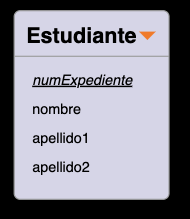
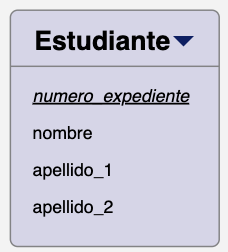
Modificado Lab09 para que toda la notación y las imágenes estén en snake_case en lugar de camelCase

diff --git a/labs/LAB09 - BigER 1.md b/labs/LAB09 - BigER 1.md
@@ -54,12 +54,12 @@ Una **entidad** representa un objeto del mundo real o conceptual que tiene una e
 
 Ve al archivo EjemplosNotacionBigER y escribe lo siguiente:
 
-entity NombreEntidad {  
-    atributo1 key  
-    atributo2  
-    atributo3  
-    atributo4  
-    atributo5  
+entity Nombre_Entidad {  
+    atributo_1 key  
+    atributo_2  
+    atributo_3  
+    atributo_4  
+    atributo_5  
 }
 
 Deberías ver algo similar a lo que se muestra en la siguiente pantalla:
@@ -69,7 +69,7 @@ Deberías ver algo similar a lo que se muestra en la siguiente pantalla:
 Tenemos varios elementos en los que fijarnos:
 
 - palabra reservada `entity` (ojo, todas las palabras reservadas se escriben en minúsculas): especifica que vamos a definir una nueva entidad.
-- **NombreEntidad**: es el nombre de la entidad.
+- **Nombre_Entidad**: es el nombre de la entidad.
 - { : llave de inicio para indicar que pasamos a describir el contenido de la entidad.
 - Lista de atributos, uno en cada línea:
     - Aquel atributo (o conjunto de atributos) que sean clave primaria habrá que indicarlo usando la palabra reservada `key` y aparecerá subrayado en el diagrama
@@ -78,7 +78,7 @@ Tenemos varios elementos en los que fijarnos:
 ---
 ### Ejercicio 01 - Entidades y atributos (1)
 
-Modifica el contenido de la entidad NombreEntidad anterior para que pase a ser la entidad **Estudiante**, con los atributos **numExpediente** (**Clave Primaria**), **nombre**, **apellido1** y **apellido2** para que se visualice dicha entidad de esta forma:
+Modifica el contenido de la entidad Nombre_Entidad anterior para que pase a ser la entidad **Estudiante**, con los atributos **numero_expediente** (**Clave Primaria**), **nombre**, **apellido_1** y **apellido_2** para que se visualice dicha entidad de esta forma:
 ![](../imgs/BD%20-%20BigER%20Entidad%20Estudiante.png)
 
 Escribe en la notación BigER cómo modelar la entidad **Estudiante**
@@ -93,19 +93,19 @@ Una **relación** describe una interacción entre dos o más entidades. Además,
 
 La notación utilizada en BigER es la siguiente:
 
-**relationship** NombreRelacion {
+**relationship** nombre_relacion {
 
-Entidad1[`cardMin..cardMax`] `->` Entidad2[`cardMin..cardMax`]
-atributo1DeLaRelacion
-atributo2DeLaRelacion
+Entidad_1[`cardinalidad_minima..cardinalidad_maxima`] `->` Entidad_2[`cardinalidad_minima..cardinalidad_maxima`]
+atributo_1_de_la_relacion
+atributo_2_de_la_relacion
 ...
-atributoZDeLaRelacion
+atributo_n_de_la_relacion
 }
 
 - palabra reservada **relationship**
-- NombreRelacion: es el nombre que le damos a la relación.
-- Entidad1 y Entidad2: son las entidades involucradas en la relación.
-- **cardMin**..**cardMax**: indica el número de instancias que pueden participar en la relación. Puede ser:
+- nombre_relacion: es el nombre que le damos a la relación.
+- Entidad_1 y Entidad_2: son las entidades involucradas en la relación.
+- **cardinalidad_minima**..**cardinalidad_maxima**: indica el número de instancias que pueden participar en la relación. Puede ser:
     - 0..1: mínimo cero, máximo uno.
     - 1..1: una y solo una instancia.
     - 0..N: desde cero a muchas instancias.
@@ -115,17 +115,16 @@ atributoZDeLaRelacion
 Vuelve de nuevo al archivo EjemplosNotacionBigER y añade lo siguiente:
 
 `entity` Titulacion {
-codTitulacion `key`
+codigo `key`
 nombre
 }
 
-`relationship` matriculadoEn {
+`relationship` matriculado_en {
 Estudiante[`1..N`] `->` Titulacion[`1..1`]
-fechaMatriculacion
+fecha_matriculacion
 }
 
 Tras escribir ese texto, deberías poder ver en la ventana del diagrama E/R algo similar a lo que se muestra en la siguiente pantalla:
-
 ![](../imgs/BD%20-%20BigER%20Relacion%20Estudiante%20Titulacion%20Chen.png)
 
 Como puedes observar, BigER por defecto usa una notación gráfica distinta a la notación Crow's foot que queremos en nuestros diagramas.
@@ -137,13 +136,12 @@ Hay dos maneras de conseguir que BigER nos muestre el diagrama E/R en notación 
 
 Tanto si lo haces de una forma como de otra ya deberías poder ver así el diagrama:
 
-![](../../imgs/BD%20-%20BigER%20Estudiante%20Titulacion%20Matriculado%20En.png)
+![](../imgs/BD%20-%20BigER%20Relacion%20Estudiante%20Titulacion%20Crow%20Foot.png)
 
 Como acabamos de ver, aunque BigER admite atributos al describir una relación, no los muestra.
 
 Si pasas el ratón por encima del rombo que modela la relación, verás que aunque no lo muestre, sí lo está incluyendo como atributo en la relación tal y como se ve en la siguiente imagen:
-
-![](../imgs/BD%20-%20BigER%20Atributo%20en%20Matriculado%20En.png)
+![](../imgs/BD%20-%20BigER%20Relacion%20Estudiante%20Titulacion%20Mostrando%20Atributo%20Relacion.png)
 
 Para poder mostrar este, y cualquier otro atributo de relación, en el diagrama final tendremos que recurrir a otras herramientas que nos permitan incluir líneas y texto sobre la imagen del diagrama cuando tengamos nuestro diagrama terminado.
 
@@ -152,19 +150,18 @@ Cualquier editor de texto, de presentaciones o de imagen suele soportar ese tipo
 En nuestro caso, en los distintos diagramas E/R que ves en la asignatura, estamos recurriendo a PowerPoint (también es igual de sencillo en cualquier otro editor de presentaciones) dado lo fácil que es incluir sobre una imagen tanto distintas formas como texto.
 
 Así, puedes ver a continuación el diagrama tan incluir su imagen (rápidamente mediante captura de pantalla) en una diapositiva de Powerpoint, incluir el nombre del atributo como cuadro de texto y unir el rombo y el texto insertando una línea recta:
-
-![](../imgs/BD%20-%20BigER%20Atributo%20en%20Matriculado%20En%20Retocado.png)
+![](../imgs/BD%20-%20BigER%20Relacion%20Estudiante%20Titulacion%20Mostrando%20Atributo%20Relacion%20Powerpoint.png)
 
 Antes de pasar a realizar ejercicios con relaciones, indicar que es posible modelar relaciones ternarias entre tres entidades. La única diferencia es que en este caso la sintaxis sería:
 
-`relationship` NombreRelacion {
-Entidad1[`cardMin..cardMax`] `->` 
-Entidad2[`cardMin..cardMax`] `->` 
-Entidad3[`cardMin..cardMax`]
-atributo1DeLaRelacion
-atributo2DeLaRelacion
+`relationship` nombre_relacion {
+Entidad_1[`cardinalidad_minima..cardinalidad_maxima`] `->` 
+Entidad_2[`cardinalidad_minima..cardinalidad_maxima`] `->` 
+Entidad_3[`cardinalidad_minima..cardinalidad_maxima`]
+atributo_1_de_la_relacion
+atributo_2_de_la_relacion
 ...
-atributoZDeLaRelacion
+atributo_n_de_la_relacion
 }
 
 ---
@@ -178,37 +175,37 @@ La notación utilizada en BigER es la siguiente:
 
 1.- En primer lugar, la notación para una entidad dependiente o débil es la siguiente:
 
-`weak entity` NombreEntidadDebil {
-clavePrimariaParcialEnEntidadDebil `partial-key`
-atributo1DeLaEntidadDebil
+`weak entity` Nombre_Entidad_Debil {
+clave_primaria_parcial_en_entidad_debil `partial-key`
+atributo_1_de_la_entidad_debil
 ...
-atributoNDeLaEntidadDebil
+atributo_n_de_la_entidad_debil
 }
 
 Donde:
 
 - palabra reservada `weak entity`
-- clavePrimariaParcialEnEntidadDebil es el nombre del atributo de la entidad débil que, en la mayoría de los casos, se combinará con la clave o claves primarias de la/s entidad/es fuerte/s de la/s que depende seguido de la palabra reservada `partial-key`
+- clave_primaria_parcial_en_entidad_debil  es el nombre del atributo de la entidad débil que, en la mayoría de los casos, se combinará con la clave o claves primarias de la/s entidad/es fuerte/s de la/s que depende seguido de la palabra reservada `partial-key`
 - resto de atributos de la entidad débil
 
 2.- En segundo lugar, toda entidad dependiente o débil se relaciona con, al menos, una entidad fuerte mediante una relación débil cuya notación es la siguiente:
 
-`weak relationship` NombreRelacionDebil {
-EntidadDebil[`0..N`] (o [`1..N`]) **->** EntidadFuerte[`1..1`]
+`weak relationship` nombre_relacion_debil {
+Entidad_Debil[`0..N`] (o [`1..N`]) **->** Entidad_Fuerte[`1..1`]
 }
 
 o dependiendo **si por el nombre de la relación se entiende mejor cambiando el orden:**
 
-`weak relationship` NombreRelacionDebil {
-EntidadFuerte[`1..1`] -> EntidadDebil[`0..N`] (o [`1..N`])
+`weak relationship` nombre_relacion_debil {
+Entidad_Fuerte[`1..1`] -> Entidad_Debil[`0..N`] (o [`1..N`])
 }
 
 Donde:
 
 - palabra reservada `weak relationship`
-- NombreRelacionDebil: es el nombre que le damos a la relación débil.
-- EntidadDebil: aparece siempre con cardinalidad [`0..N`] o [`1..N`] dependiendo del caso.
-- EntidadFuerte: aparece siempre con cardinalidad [`1..1`].
+- nombre_relacion_debil: es el nombre que le damos a la relación débil.
+- Entidad_Debil: aparece siempre con cardinalidad [`0..N`] o [`1..N`] dependiendo del caso.
+- Entidad_Fuerte: aparece siempre con cardinalidad [`1..1`].
 - Lista de atributos específicos de la relación, cada uno en una línea.
 
 Hay que tener en cuenta que en caso de que la entidad dependiente o débil dependa de más de una entidad tendremos que tener una relación débil con cada una de esas entidades fuertes.
@@ -216,19 +213,19 @@ Hay que tener en cuenta que en caso de que la entidad dependiente o débil depen
 Vuelve de nuevo al archivo EjemplosNotacionBigER y añade lo siguiente:
 
 `weak entity` Asignatura {
-codAsignatura `partial-key` //atributo aportado a la clave primaria por la entidad débil Asignatura
-nombreAsignatura
+codigo_asignatura `partial-key` //atributo aportado a la clave primaria por la entidad débil Asignatura
+nombre
 }
 
-`weak relationship` compuestaDe {
+`weak relationship` compuesta_de {
 Titulacion[`1..1`] -> Asignatura[`1..N`]
 }
 
 Tras escribir ese texto, deberías poder ver en la ventana del diagrama E/R algo similar a lo que se muestra en la siguiente imagen:
 
-![](../imgs/BD%20-%20BigER%20Debil%20Titulacion%20Asignatura%20Crows%20Foot.png)
+![](../imgs/BD%20-%20BigER%20Relacion%20Estudiante%20Titulacion%20Asignatura%20Crow%20Foot.png)
 
-Puedes ver como tanto la entidad dependiente Asignatura como la relación débil compuestaDe aparecen con borde negro más grueso para indicar que son débiles. Cuando las dibujemos a mano normalmente usaremos doble borde en lugar de un borde grueso negro para que se distingan mejor.
+Puedes ver como tanto la entidad dependiente Asignatura como la relación débil compuesta_de aparecen con borde negro más grueso para indicar que son débiles. Cuando las dibujemos a mano normalmente usaremos doble borde en lugar de un borde grueso negro para que se distingan mejor.
 
 ---
 
@@ -240,41 +237,42 @@ A veces, las entidades en una relación pueden desempeñar distintos **roles**. 
 
 La notación utilizada en BigER es la siguiente:
 
-`relationship` NombreRelacionConRoles {
+`relationship` Nombre_Relacion_Con_Roles {
 
-Entidad1[`cardMin..cardMax` | `"rol1"`] -> Entidad2[`cardMin..cardMax` | `"rol2"`]
-AtributoDeLaRelacion1
-AtributoDeLaRelacion2
+Entidad_1[`cardinalidad_minima..cardinalidad_maxima` | `"rol_1"`] -> Entidad_2[`cardinalidad_minima..cardinalidad_maxima` | `"rol_2"`]
+atributo_1_de_la_relacion
+atributo_2_de_la_relacion
 ...
-AtributoDeLaRelacionZ
+atributo_n_de_la_relacion
 }
 
 Donde:
 
 - palabra reservada `relationship`
-- NombreRelacionConRoles: es el nombre que le damos a la relación débil.
-- Entidad1 y Entidad2: son las entidades involucradas en la relación. Normalmente serán la misma relación dado que solo se suelen usar roles en relaciones recursivas  
+- Nombre_Relacion_Con_Roles: es el nombre que le damos a la relación débil.
+- Entidad_1 y Entidad_2: son las entidades involucradas en la relación. Normalmente serán la misma relación dado que solo se suelen usar roles en relaciones recursivas  
     
 - Entidad: aparece siempre en primer lugar con cardinalidad [`0..N`] o [`1..N`] dependiendo del caso.
-- `cardMin..cardMax`: indica el número de instancias que pueden participar en la relación. Puede ser:
+- `cardinalidad_minima..cardinalidad_maxima`: indica el número de instancias que pueden participar en la relación. Puede ser:
     - 0..1: mínimo cero, máximo uno. Habitual en uno de los dos lados de la relación recursiva
     - 1..1: una y solo una instancia. No suele ser habitual en relaciones recursivas.
     - 0..N: desde cero a muchas instancias. Habitual en uno de los dos lados de la relación recursiva
     - 1..N: mínimo una instancia, máximo muchas instancias.No suele ser habitual en relaciones recursivas.
-- rol1: rol tomado por la Entidad1 en la relación
-- rol2: rol tomado por la Entidad1 en la relación
+- rol_1: rol tomado por la Entidad_1 en la relación
+- rol_2: rol tomado por la Entidad_2 en la relación
 - Lista de atributos específicos de la relación, cada uno en una línea.
 
 Vuelve de nuevo al archivo EjemplosNotacionBigER y añade lo siguiente:
 
-**relationship** esMentorDe {
+**relationship** es_mentor_de {
 Estudiante[`0..1`| `"Mentor"`] -> Estudiante[`0..N`|`"Mentorizado"`]
 }
 
-Tras escribir ese texto, deberías poder ver en la ventana del diagrama E/R algo similar a lo que se muestra en la siguiente pantalla:
+Tras escribir ese texto, deberías poder ver en la ventana del diagrama E/R algo similar a lo que se muestra en la siguiente pantalla
 
-![](../imgs/BD%20-%20BigER%20Relacion%20Estudiante%20con%20Roles.png)
-Puedes ver como ahora en cada extremo de la relación esMentorDe aparece el rol tomado en cada extremo de la relación por el Estudiante.
+![](../imgs/BD%20-%20BigER%20Relacion%20Estudiante%20Titulacion%20Asignatura%20Mentor%20Crow%20Foot.png)
+
+Puedes ver como ahora en cada extremo de la relación es_mentor_de aparece el rol tomado en cada extremo de la relación por el Estudiante.
 
 ---
 ## Resolución del Enunciado ER 02 The Expanse Simplificado
@@ -305,6 +303,7 @@ Con esta información ya podemos modelar las dos primeras entidades mencionadas,
 
 ![](../imgs/BD%20-%20BigER%20Enunciado%202%20ER%20The%20Expanse%20v1%20simplificado%20Lab09%20parte%201.png)
 
+
 ---
 
 ### Ejercicio 03 - Enunciado ER 02 The Expanse Simplificado  (2)
@@ -326,7 +325,7 @@ En una primera lectura podemos pensar que tenemos cuatro entidades fuertes más:
 	- Mineral: con un código único (candidato idóneo a ser Clave Primaria), nombre y descripción de sus propiedades.
 	- Cargamento: código único interno consecutivo y fecha del empaquetado. 
 		- Ten cuidado de no confundirte con esta entidad, el mineral que transporta es una relación que tendrá con mineral y la cantidad un atributo de dicha relación.
-	- NaveEspacial: con una matrícula (candidato idóneo a ser Clave Primaria), modelo y capacidad.
+	- Nave_Espacial: con una matrícula (candidato idóneo a ser Clave Primaria), modelo y capacidad.
 	- Vuelo: con fecha de inicio del vuelo, hora de inicio del vuelo, fecha de fin del vuelo y hora del fin del vuelo.
 		- Ten cuidado de no confundirte con esta entidad, los centros entre los que vuela y los cargamentos que transportan son relaciones de la entidad.
 
@@ -344,10 +343,10 @@ Escribe el texto BigER necesario para modelarlas de manera que nuestro diagrama 
 ### Ejercicio 04 - Enunciado ER 02 The Expanse Simplificado  (3)
 
 Vamos a modelar alguna de las relaciones del diagrama con las entidades que tenemos hasta ahora:
-	- En primer lugar, vamos a modelar la relación **ubicadoEn** entre Centros y Planetas. Por lo que nos dice el enunciado, podemos entender que un Centro solo puede estar en un Planeta mientras que un Planeta que guardemos en nuestra Base de Datos siempre tendrá, como mínimo un Centro en él.
-	- En segundo lugar, vamos a modelar la relación **esPrincipalEn** entre Centro y Planeta. Por lo que dice el enunciado, un Planeta tendrá siempre un Centro como principal y solo uno, mientras que un Centro no tiene por qué ser principal.
-	- En tercer lugar, la relación **encontradoPor** entre Centro y Mineral.  Por lo que nos dice el enunciado, puede que haya centros que nunca hallen un mineral y otros que hallen muchos, mientras que puede haber minerales que nunca sean hallados por ningún centro y otros que sean hallados por muchos. Además, de esta relación tenemos que guardar un atributo llamado fechaHallazgo ya que no tiene sentido que ese atributo sea del Centro o del Mineral.
-	- Por último, vamos a modelar la relación **asignadaA** entre NaveEspacial y Planeta. Por lo que nos dice el enunciado, una instancia de NaveEspacial solo puede estar asociado a un planeta mientras que una instancia de Planeta estará relacionada, como mínimo, con una instancia de NaveEspacial y, como máximo, con muchas instancias de NaveEspacial.
+	- En primer lugar, vamos a modelar la relación **ubicado_en** entre Centros y Planetas. Por lo que nos dice el enunciado, podemos entender que un Centro solo puede estar en un Planeta mientras que un Planeta que guardemos en nuestra Base de Datos siempre tendrá, como mínimo un Centro en él.
+	- En segundo lugar, vamos a modelar la relación **es_principal_en** entre Centro y Planeta. Por lo que dice el enunciado, un Planeta tendrá siempre un Centro como principal y solo uno, mientras que un Centro no tiene por qué ser principal.
+	- En tercer lugar, la relación **encontrado_por** entre Centro y Mineral.  Por lo que nos dice el enunciado, puede que haya centros que nunca hallen un mineral y otros que hallen muchos, mientras que puede haber minerales que nunca sean hallados por ningún centro y otros que sean hallados por muchos. Además, de esta relación tenemos que guardar un atributo llamado fecha_hallazgo ya que no tiene sentido que ese atributo sea del Centro o del Mineral.
+	- Por último, vamos a modelar la relación **asignada_a** entre Nave_Espacial y Planeta. Por lo que nos dice el enunciado, una instancia de Nave_Espacial solo puede estar asociado a un planeta mientras que una instancia de Planeta estará relacionada, como mínimo, con una instancia de Nave_Espacial y, como máximo, con muchas instancias de Nave_Espacial.
 
 Escribe el texto BigER necesario para modelarlas y visualiza el resultado en el diagrama en VsCode. Antes de continuar asegúrate de estar entendiendo cómo se está representando gráficamente cada relación.
 
@@ -358,17 +357,17 @@ Vamos a tratar de modelar la entidad Vuelo que dejamos sin modelar al modelar la
 
 Ya vimos que, tal y como nos dice el enunciado no tienen un atributo que permita distinguir vuelos que despeguen y aterricen a la misma hora.. Además, ¿qué pasaría con la información de los Vuelos si desapareciera la Nave Espacial que los realiza?
 
-Todo esto nos tiene que llevar a modelar Vuelo como **Entidad débil** que va a depender de NaveEspacial. ¿Cuál será la clave parcial que aportan los vuelos para, junto con la clave de la entidad fuerte NaveEspacial, poder distinguir un vuelo de cualquier otro en la Base de Datos? Podríamos pensar que con la fecha de despegue del vuelo es suficiente pero, ¿qué pasa si una nave realiza más de un vuelo el mismo día? Con la fecha de despegue ya vemos que no es suficiente pero si además de la fecha de despegue, incluimos la hora del despegue ya sí tenemos los suficientes atributos para distinguir cualquier vuelo de otro.
+Todo esto nos tiene que llevar a modelar Vuelo como **Entidad débil** que va a depender de Nave_Espacial. ¿Cuál será la clave parcial que aportan los vuelos para, junto con la clave de la entidad fuerte Nave_Espacial, poder distinguir un vuelo de cualquier otro en la Base de Datos? Podríamos pensar que con la fecha de despegue del vuelo es suficiente pero, ¿qué pasa si una nave realiza más de un vuelo el mismo día? Con la fecha de despegue ya vemos que no es suficiente pero si además de la fecha de despegue, incluimos la hora del despegue ya sí tenemos los suficientes atributos para distinguir cualquier vuelo de otro.
 
 Con todo esto, en nuestro diagrama ER tendemos que:
 
 1.- Añadir la **Entidad débil** **Vuelo** que está formada por los atributos:
-- fechaIni: clave parcial aportada por Vuelo que tenemos que combinar como clave parcial para formar la clave primaria.
-- horaIni: clave parcial aportada por Vuelo que tenemos que combinar como clave parcial para formar la clave primaria.
-- fechaFin
-- horaFin
+- fecha_inicio: clave parcial aportada por Vuelo que tenemos que combinar como clave parcial para formar la clave primaria.
+- hora_inicio: clave parcial aportada por Vuelo que tenemos que combinar como clave parcial para formar la clave primaria.
+- fecha_fin
+- hora_fin
 
-2.- Añadir la **relación débil** **realizadoPor** entre Vuelo y NaveEspacial. Dado que es una relación débil, la única duda a resolver para fijar la cardinalidad es si puede haber en nuestra BD  Naves que todavía no hayan realizado vuelos y tiene sentido que sí tengamos dado que un Planeta cada vez que reciba una Nave nueva esta todavía no habrá volado.
+2.- Añadir la **relación débil** **realizado_por** entre Vuelo y Nave_Espacial. Dado que es una relación débil, la única duda a resolver para fijar la cardinalidad es si puede haber en nuestra BD  Naves que todavía no hayan realizado vuelos y tiene sentido que sí tengamos dado que un Planeta cada vez que reciba una Nave nueva esta todavía no habrá volado.
 
 Escribe el texto BigER necesario para modelar todo esto y visualiza el resultado en el diagrama en VsCode. Antes de continuar asegúrate de estar entendiendo cómo se está representando gráficamente todo.
 
@@ -377,8 +376,8 @@ Escribe el texto BigER necesario para modelar todo esto y visualiza el resultado
 ### Ejercicio 06 - Enunciado ER 02 The Expanse Simplificado  (5)
 
 Ahora que tenemos la entidad débil Vuelo, podemos acabar de modelar el resto de sus relaciones:
-	- En primer lugar, vamos a modelar la relación **origenDe** entre Vuelo y Centro. Por lo que nos dice el enunciado, podemos entender que puede haber todavía algún Centro que no haya sido el origen de ningún Vuelo, pero un Vuelo siempre debe tener un Centro de Origen.
-	- En segundo lugar, vamos a modelar la relación **destinoDe** entre Vuelo y Centro. Por lo que nos dice el enunciado, podemos entender que puede haber todavía algún Centro que no haya sido destino de ningún Vuelo, pero un Vuelo siempre debe tener un Centro de Destino (vamos a suponer que un Vuelo no tiene ningún incidente que le haya impedido alcanzar su destino).
+	- En primer lugar, vamos a modelar la relación **origen_de** entre Vuelo y Centro. Por lo que nos dice el enunciado, podemos entender que puede haber todavía algún Centro que no haya sido el origen de ningún Vuelo, pero un Vuelo siempre debe tener un Centro de Origen.
+	- En segundo lugar, vamos a modelar la relación **destino_de** entre Vuelo y Centro. Por lo que nos dice el enunciado, podemos entender que puede haber todavía algún Centro que no haya sido destino de ningún Vuelo, pero un Vuelo siempre debe tener un Centro de Destino (vamos a suponer que un Vuelo no tiene ningún incidente que le haya impedido alcanzar su destino).
 
 Escribe el texto BigER necesario para modelarlas y visualiza el resultado en el diagrama en VsCode. Antes de continuar asegúrate de estar entendiendo cómo se está representando gráficamente cada relación.
 
@@ -395,10 +394,10 @@ Todo esto nos tiene que llevar a modelar Cargamento como **Entidad débil** que 
 Con todo esto, en nuestro diagrama ER tendemos que:
 
 1.- Añadir la **Entidad débil** **Cargamento** que está formada por los atributos:
-- codCargam: clave parcial aportada por Cargamento para formar la clave primaria.
-- fechaCargam
+- codigo: clave parcial aportada por Cargamento para formar la clave primaria.
+- fecha
 
-2.- Añadir la **relación débil** **almacenadoEn** entre Cargamento y Centro. Dado que es una relación débil, la única duda a resolver para fijar la cardinalidad es si puede haber en nuestra BD algún Centro que todavía no haya tenido un Cargamento y tiene sentido que sí dado que un Centro puede estar recién construido sin haber encontrado ni extraído ningún mineral.
+2.- Añadir la **relación débil** **almacenado_en** entre Cargamento y Centro. Dado que es una relación débil, la única duda a resolver para fijar la cardinalidad es si puede haber en nuestra BD algún Centro que todavía no haya tenido un Cargamento y tiene sentido que sí dado que un Centro puede estar recién construido sin haber encontrado ni extraído ningún mineral.
 
 Escribe el texto BigER necesario para modelar todo esto y visualiza el resultado en el diagrama en VsCode. Antes de continuar asegúrate de estar entendiendo cómo se está representando gráficamente todo.
 
@@ -406,8 +405,8 @@ Escribe el texto BigER necesario para modelar todo esto y visualiza el resultado
 ### Ejercicio 08 - Enunciado ER 02 The Expanse Simplificado  (7)
 
 Ahora que tenemos la entidad débil Cargamento, podemos acabar de modelar el resto de sus relaciones:
-	- En primer lugar, vamos a modelar la relación **formaParteDe** entre Cargamento y Mineral. Por lo que nos dice el enunciado, puede que un mineral todavía no haya formado parte de ningún cargamento y otros que estén en muchos. Además, esta relación tiene un atributo llamado cantidad.
-	- En segundo lugar, vamos a modelar la relación **transportadoEn** entre Cargamento y Vuelo. Por lo que nos dice el enunciado, puede que haya cargamentos que todavía no hayan sido transportados pero los vuelos, al menos, transportarán un cargamento cada vez que se producen.
+	- En primer lugar, vamos a modelar la relación **forma_parte_de** entre Cargamento y Mineral. Por lo que nos dice el enunciado, puede que un mineral todavía no haya formado parte de ningún cargamento y otros que estén en muchos. Además, esta relación tiene un atributo llamado cantidad.
+	- En segundo lugar, vamos a modelar la relación **transportado_en** entre Cargamento y Vuelo. Por lo que nos dice el enunciado, puede que haya cargamentos que todavía no hayan sido transportados pero los vuelos, al menos, transportarán un cargamento cada vez que se producen.
 
 Escribe el texto BigER necesario para modelarlas y visualiza el resultado en el diagrama en VsCode. Antes de continuar asegúrate de estar entendiendo cómo se está representando gráficamente cada relación.
 
@@ -429,19 +428,19 @@ Este caso se corresponde con lo visto para Entidades Débiles en el apartado 5.4
 
 Si recordamos ese apartado, esto significa convertir la interacción a lo largo del tiempo en una **entidad débil con repetición** (o histórica). Esta nueva entidad guardará cada "evento" de la relación, y su clave primaria casi siempre incluirá un atributo de tiempo (como curso o fecha).
 
-En nuestro ejemplo de un Centro extrae Mineral, vamos a convertir la relación en una entidad débil llamada **HistoricoExtraccion**. Dado que en una fecha concreta, una instancia de Centro puede relacionarse con **varias** instancias de Mineral, y, varias instancias de Mineral estar relacionadas con **varias** de Centro, esta entidad depende tanto de Centro como de Mineral. 
+En nuestro ejemplo de un Centro extrae Mineral, vamos a convertir la relación en una entidad débil llamada **Historico_Extraccion**. Dado que en una fecha concreta, una instancia de Centro puede relacionarse con **varias** instancias de Mineral, y, varias instancias de Mineral estar relacionadas con **varias** de Centro, esta entidad depende tanto de Centro como de Mineral. 
 
 ¿Cuál será la clave parcial que aporta la relación para, junto con la clave de la entidad fuerte Centro y la clave de la entidad fuerte Mineral, poder distinguir una extracción de cualquier otra en la Base de Datos? En este caso usaremos la fecha ya que con ella es suficiente.
 
 Con todo esto, en nuestro diagrama ER tendemos que:
 
-1.- Añadir la **Entidad débil** **HistoricoExtraccion** que está formada por los atributos:
+1.- Añadir la **Entidad débil** **Historico_Extraccion** que está formada por los atributos:
 - fecha: clave parcial aportada por la relación que permite distinguir la extracción de un día de Mineral por un Centro de la extracción de ese mismo mineral por ese mismo Centro cualquier otro día
 - cantidad
 
-2.- Añadir la **relación débil** **extraidoPor** entre HistoricoExtraccion y Centro. Dado que es una relación débil, la única duda a resolver para fijar la cardinalidad es si puede haber en nuestra BD algún Centro que todavía no haya extraído ningún Mineral y tiene sentido que sí dado que un Centro puede estar recién construido sin haber encontrado ni extraído ningún mineral.
+2.- Añadir la **relación débil** **extraido_por** entre Historico_Extraccion y Centro. Dado que es una relación débil, la única duda a resolver para fijar la cardinalidad es si puede haber en nuestra BD algún Centro que todavía no haya extraído ningún Mineral y tiene sentido que sí dado que un Centro puede estar recién construido sin haber encontrado ni extraído ningún mineral.
 
-3.- Añadir la **relación débil** **incluidoEn** entre HistoricoExtraccion y Mineral. Dado que es una relación débil, la única duda a resolver para fijar la cardinalidad es si puede haber en nuestra BD algún Mineral que todavía no haya estado incluido en ninguna extracción de ningún Centro y tiene sentido que sí.
+3.- Añadir la **relación débil** **incluido_en** entre Historico_Extraccion y Mineral. Dado que es una relación débil, la única duda a resolver para fijar la cardinalidad es si puede haber en nuestra BD algún Mineral que todavía no haya estado incluido en ninguna extracción de ningún Centro y tiene sentido que sí.
 
 Escribe el texto BigER necesario para modelar todo esto y visualiza el resultado en el diagrama en VsCode. Antes de continuar asegúrate de estar entendiendo cómo se está representando gráficamente todo.
 
